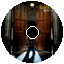
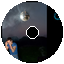
host almost done

diff --git a/host/main.py b/host/main.py
@@ -1,12 +1,12 @@
 import json
 import os
 from pathlib import Path
-
+import time
 import requests
 import spotipy
 import yaml
 from PIL import Image, ImageDraw, ImageOps
-from spotipy.oauth2 import SpotifyOAuth
+from spotipy.oauth2 import CacheFileHandler, SpotifyOAuth
 
 
 def load_config():
@@ -22,15 +22,20 @@ def spotipy_setup():
     config = load_config()
     client_id = config.get("SPOTIPY_CLIENT_ID") or os.getenv("SPOTIPY_CLIENT_ID")
     client_secret = config.get("SPOTIPY_CLIENT_SECRET") or os.getenv("SPOTIPY_CLIENT_SECRET")
-    redirect_uri = config.get("SPOTIPY_REDIRECT_URI") or os.getenv("SPOTIPY_REDIRECT_URI")
+    redirect_uri = config.get("SPOTIPY_REDIRECT_URI") or os.getenv("SPOTIPY_REDIRECT_URI") or "http://127.0.0.1:8080/callback"
 
     scope = "user-read-playback-state user-read-currently-playing"
+
+    cache_path = Path(__file__).resolve().parent / ".cache"
+    cache_handler = CacheFileHandler(cache_path=str(cache_path))
 
     auth_manager = SpotifyOAuth(
         client_id=client_id,
         client_secret=client_secret,
         redirect_uri=redirect_uri,
         scope=scope,
+        open_browser=True,
+        cache_handler=cache_handler,
     )
     sp = spotipy.Spotify(auth_manager=auth_manager)
     return sp
@@ -80,29 +85,37 @@ def image_convert(img):
 
 def main():
     sp = spotipy_setup()
-    try:
-        info = sp.current_playback()
+    last_img = ''
+    while True:
+        time.sleep(5)
+        try:
+            info = sp.current_playback()
+            if info and info.get("is_playing"):
+                info = {
+                    "song_name": info["item"]["name"],
+                    "artist": info["item"]["artists"][0]["name"],
+                    "album": info["item"]["album"]["name"],
+                    "year": info["item"]["album"]["release_date"].split("-")[0],
+                    "img": info["item"]["album"]["images"][1]["url"],
+                }
+                if info['img'] != last_img:
+                    with open("./out/cover.jpg", "wb") as f:
+                        img = requests.get(info["img"])
+                        f.write(img.content)
+                        f.close()
 
-        if info and info.get("is_playing"):
-            info = {
-                "song_name": info["item"]["name"],
-                "artist": info["item"]["artists"][0]["name"],
-                "album": info["item"]["album"]["name"],
-                "year": info["item"]["album"]["release_date"].split("-")[0],
-                "img": info["item"]["album"]["images"][1]["url"],
-            }
-            with open("./out/cover.jpg", "wb") as f:
-                img = requests.get(info["img"])
-                f.write(img.content)
-                f.close()
+                    image_convert("./out/cover.jpg")
 
-            image_convert("./out/cover.jpg")
+                    with open("./out/info.json", "w", encoding="utf-8") as f:
+                        json.dump(info, f, sort_keys=True, indent=4, ensure_ascii=False)
+                        f.close()
+                        print('ye')
+                    last_img = info['img']
 
-            with open("./out/info.json", "w", encoding="utf-8") as f:
-                json.dump(info, f, sort_keys=True, indent=4, ensure_ascii=False)
-                f.close()
-    except Exception:
-        print("!!! NO CONNECTION !!!")
+                
+            print(info)
+        except Exception:
+            print("!!! NO CONNECTION !!!")
     
 if __name__ == "__main__":
     main()

diff --git a/host/server.py b/host/server.py
@@ -1,0 +1,63 @@
+from __future__ import annotations
+
+import json
+from pathlib import Path
+from typing import Union
+
+from flask import Flask, abort, jsonify, send_file
+
+
+def create_app(data_dir: Union[str, Path, None] = None) -> Flask:
+    base_dir = Path(data_dir) if data_dir is not None else Path(__file__).resolve().parent / "out"
+    base_dir = base_dir.resolve()
+    base_dir.mkdir(parents=True, exist_ok=True)
+
+    app = Flask(__name__)
+
+    @app.get("/health")
+    def health() -> tuple[dict, int]:
+        return jsonify({"status": "ok"}), 200
+
+    @app.get("/api/info")
+    def get_info():
+        info_path = base_dir / "info.json"
+        if not info_path.exists():
+            return jsonify({"error": "info.json not found"}), 404
+
+        with info_path.open("r", encoding="utf-8") as handle:
+            return jsonify(json.load(handle))
+
+    @app.get("/api/art")
+    def list_art():
+        art_dir = base_dir / "art"
+        if not art_dir.exists():
+            return jsonify({"files": []})
+
+        files = sorted(path.name for path in art_dir.iterdir() if path.is_file())
+        return jsonify({"files": files, "directory": str(art_dir)})
+
+    @app.get("/api/art/<path:filename>")
+    def get_art(filename: str):
+        art_dir = base_dir / "art"
+        if not art_dir.exists():
+            return jsonify({"error": "art folder not found"}), 404
+
+        candidate = (art_dir / filename).resolve()
+        try:
+            candidate.relative_to(art_dir.resolve())
+        except ValueError:
+            abort(403)
+
+        if not candidate.exists() or not candidate.is_file():
+            abort(404)
+
+        return send_file(candidate)
+
+    return app
+
+
+app = create_app()
+
+
+if __name__ == "__main__":
+    app.run(host="0.0.0.0", port=5000, debug=False)

diff --git a/README.md b/README.md
@@ -1,3 +1,7 @@
 HOST: meant to run on a docker container. Wil scan what music you are listening to on spotify. downloads the album art + metadata. 
       if no music is running -> some placeholder will be uploaded
 GUEST: checks every 5 seconds if HOST uploaded something new. displays currently available data from host on display
+
+http://127.0.0.1:5000/api/info
+http://127.0.0.1:5000/api/art
+http://127.0.0.1:5000/api/art/cover.png
